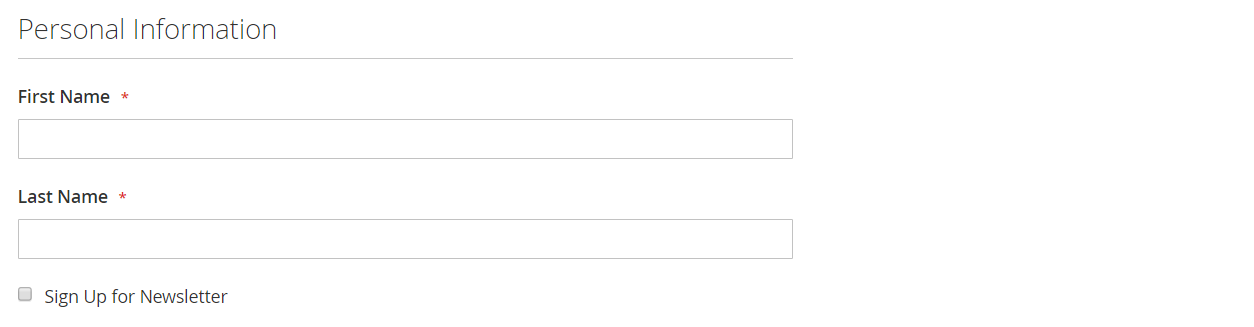
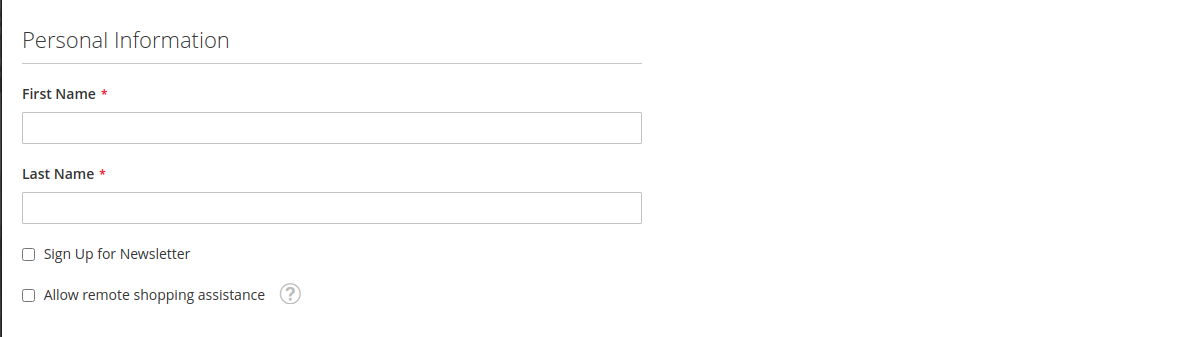
Update image and add description

diff --git a/src/customers/account-create.md b/src/customers/account-create.md
@@ -29,6 +29,8 @@ A store customer creates a new account on the storefront.
 
     This option appears even if the store doesn’t publish a newsletter.
 
+1. If you want to allows merchants to [See what you see]({% link customers/login-as-customer.md %}) and take actions on your behalf in order to provide better assistance, select the **Allow remote shopping assistance** checkbox.
+
 1. Under **Sign-in Information**, enter your **Email** address.
 
     This email address will become part of your sign-in credentials, and cannot be associated with any other customer account.
@@ -48,6 +50,8 @@ A store customer creates a new account on the storefront.
     ![]({% link images/images/storefront-customer-account-create-password-strong.png %}){: .zoom}
 
     Then, enter it again to **Confirm Password**.
+
+1. Click <span class="btn">Show Password</span> to see what password you are entering.
 
 1. When complete, click <span class="btn">Create an Account</span>.
 
